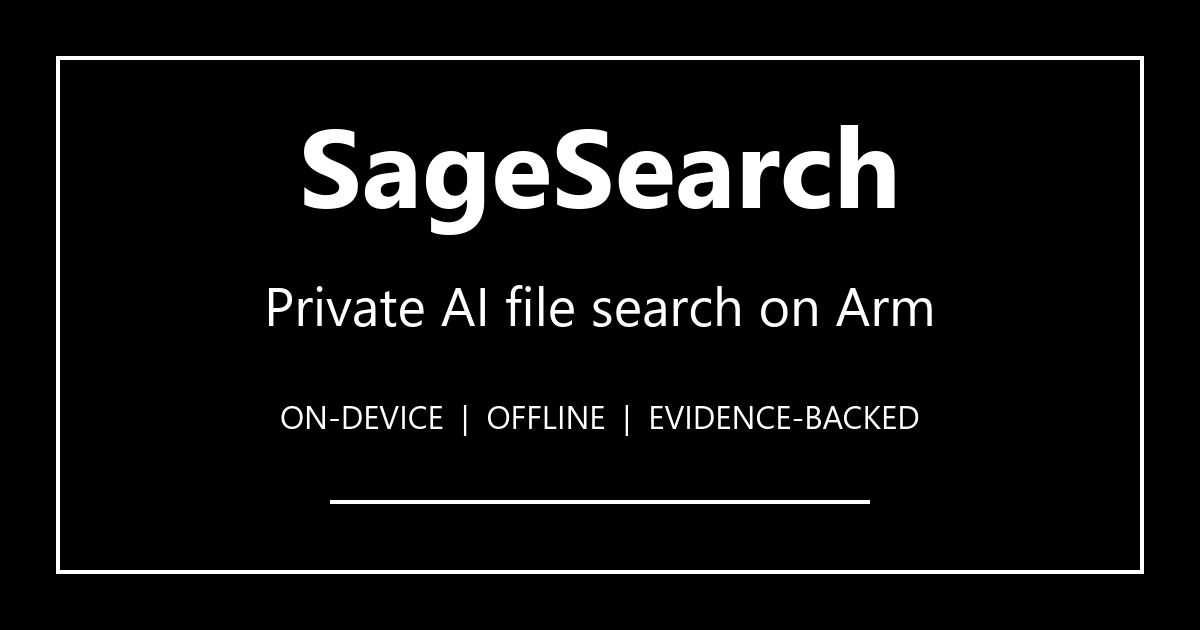
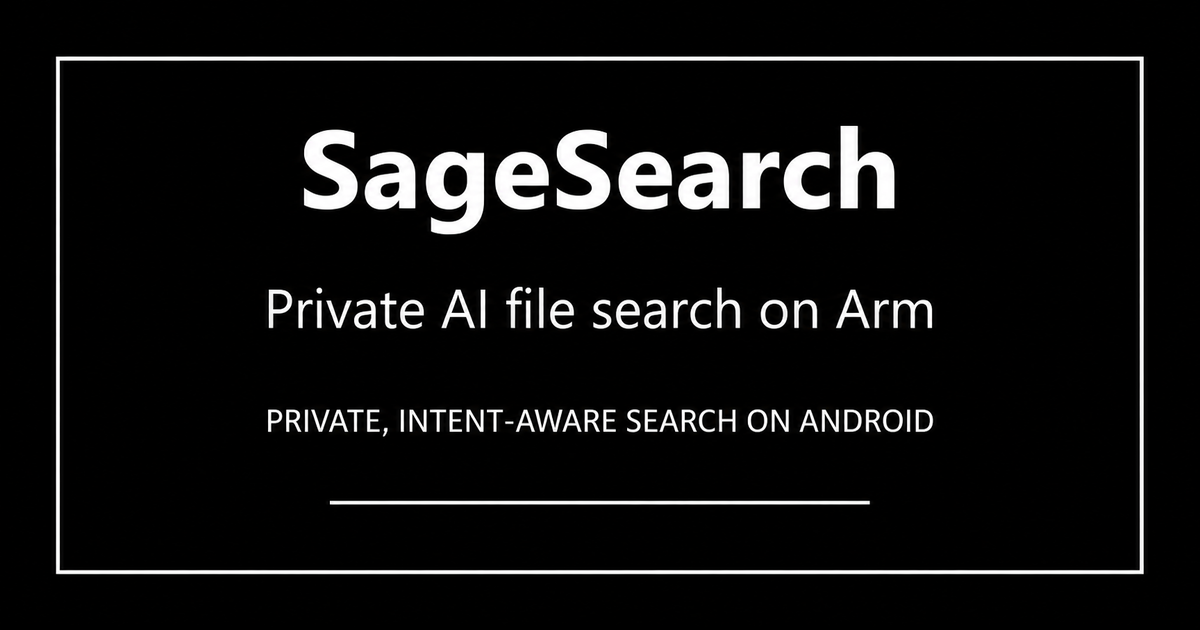
Update README artwork tagline

diff --git a/README.md b/README.md
@@ -2,7 +2,7 @@
 
 [![License](https://img.shields.io/badge/License-Apache_2.0-blue.svg)](LICENSE)
 
-![SageSearch — private AI file search on Arm](artifacts/demo/sagesearch-devpost-thumbnail.png)
+![SageSearch on Arm — private, intent-aware search on Android](artifacts/demo/sagesearch-devpost-thumbnail.png)
 
 > Find local files using plain language. Your file index and results stay on your device.
 
